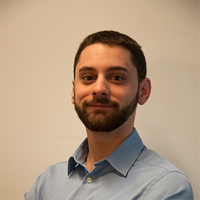
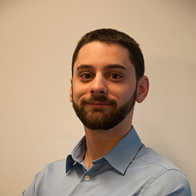
Correct speaker images' size

diff --git a/_posts/2018-11-30-Devoxx-MA.md b/_posts/2018-11-30-Devoxx-MA.md
@@ -10,7 +10,7 @@ comments: true
 
 > [Devoxx MA](https://devoxx.ma/){:target="_blank"} is a yearly conference held in Morocco.
 > Previously it was held in Casablanca but for their 4th edition, xHub, 
-> the organisation behind Devoxx MA, decided to hold it in Marrakesh, in the lovely Palm Plaza Hotel.
+> the organisation behind Devoxx MA, decided to hold it in Marrakesh, in the lovely Palm Plaza Hotel on the 27th, 28th and 29th of November 2018.
 > Next to the conference, xHub also offered a speakers trip for a reasonable price.
 > Four colleagues of Ordina JWorks: Yannick De Turck, Tim Ysewyn, Tom Van den Bulck and Maarten Casteels attended both the conference and the speakers trip.
 > Three out of them were also featured as speaker.
@@ -89,7 +89,7 @@ Yannick also wrote a [blog post](/testing/2018/02/05/Writing-tests-in-Kotlin-wit
 <br/>
 
 ## Stream Processing Live Traffic Data with Kafka Streams by [Tom Van den Bulck](https://twitter.com/tomvdbulck){:target="_blank" rel="noopener noreferrer"} and [Tim Ysewyn](https://twitter.com/TYsewyn){:target="_blank" rel="noopener noreferrer"}
-<span class="image left"><img class="p-image" alt="Tom van den Bulck" src="/img/devoxx-ma-2018/speaker-tom-van-den-bulck.jpg"></span>
+<span class="image left"><img class="p-image" alt="Tom van den Bulck" src="/img/devoxx-ma-2018/speaker-tom-van-den-bulck.png"></span>
 <span class="image left"><img class="p-image" alt="Tim Ysewyn" src="/img/devoxx-ma-2018/speaker-tim-ysewyn.png"></span>
 
 Our colleagues, Tim Ysewyn and Tom Van den Bulck, gave a talk about Stream Processing Live Traffic Data with Kafka Streams.
@@ -136,7 +136,7 @@ We really liked how in-depth everything was as many presentations about Domain-D
 You can check out Benjamin's slides on [slides.com](https://slides.com/dataduke/2018-11-27-ddd#/){:target="_blank" rel="noopener noreferrer"}.
 
 ## La keynote de la nouvelle generation by Saskia and Lois
-<span class="image left"><img class="p-image" alt="Saskia and Lois" src="/img/devoxx-ma-2018/speaker-saskia-lois.jpg"></span>
+<span class="image left"><img class="p-image" alt="Saskia and Lois" src="/img/devoxx-ma-2018/speaker-saskia-lois.png"></span>
 Some background information, Saskia (13y) and Lois (10y) Blanc, they asked the audience to close their eyes for a few seconds. 
 We must think about tomorrow, what would we like to have in the near future.
 
